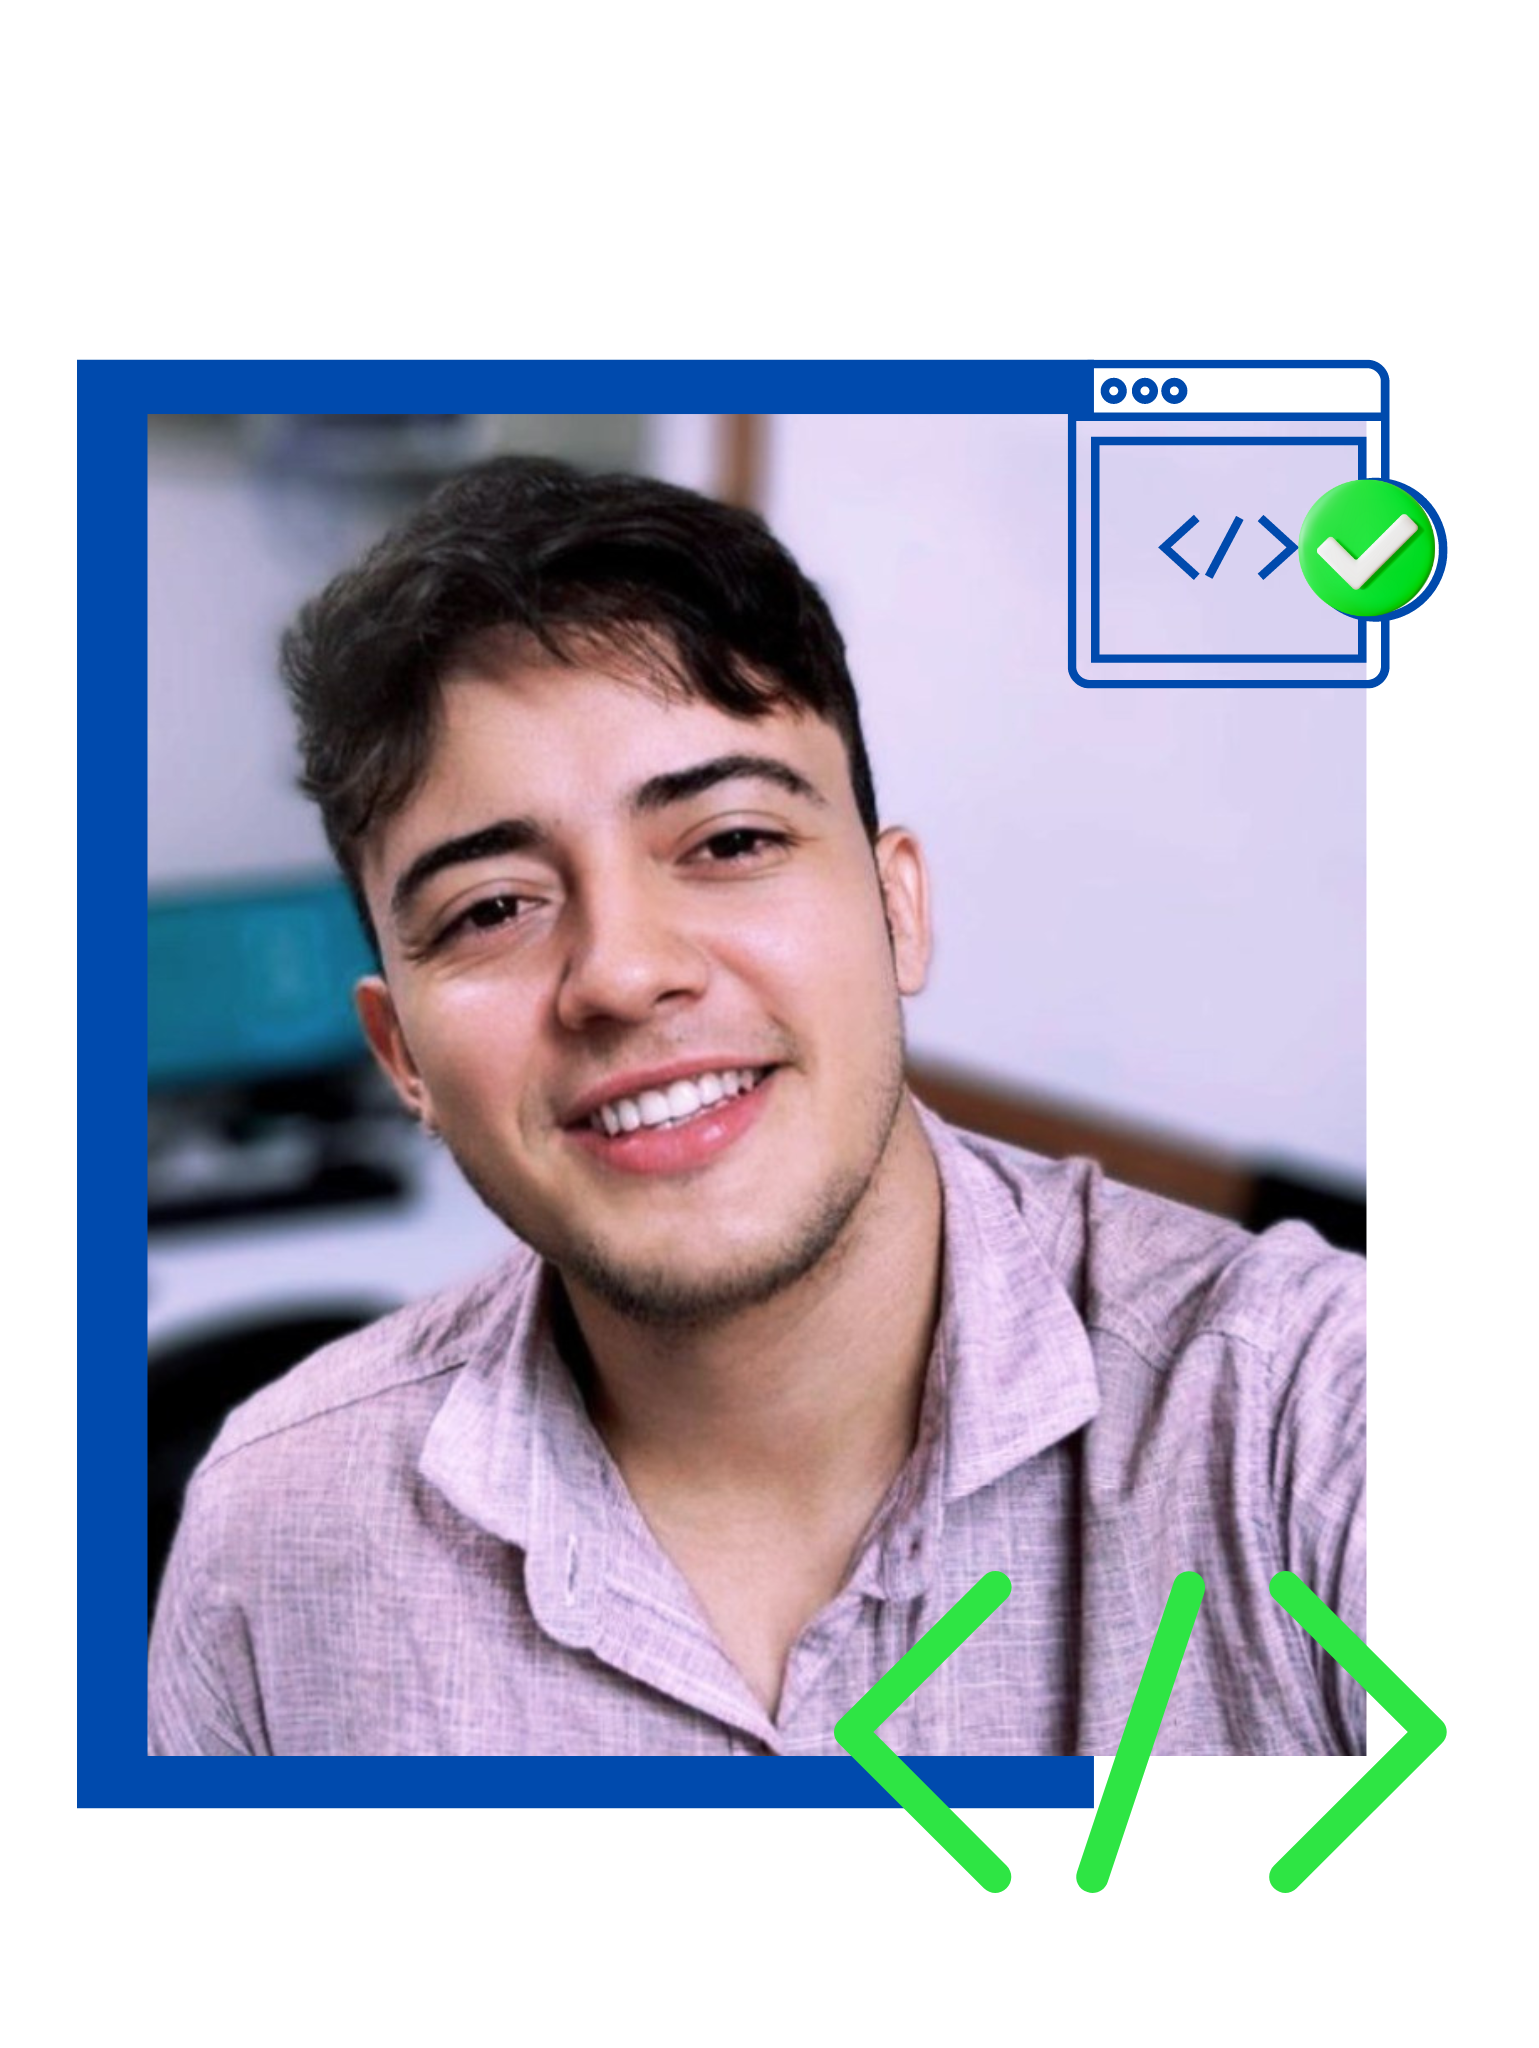
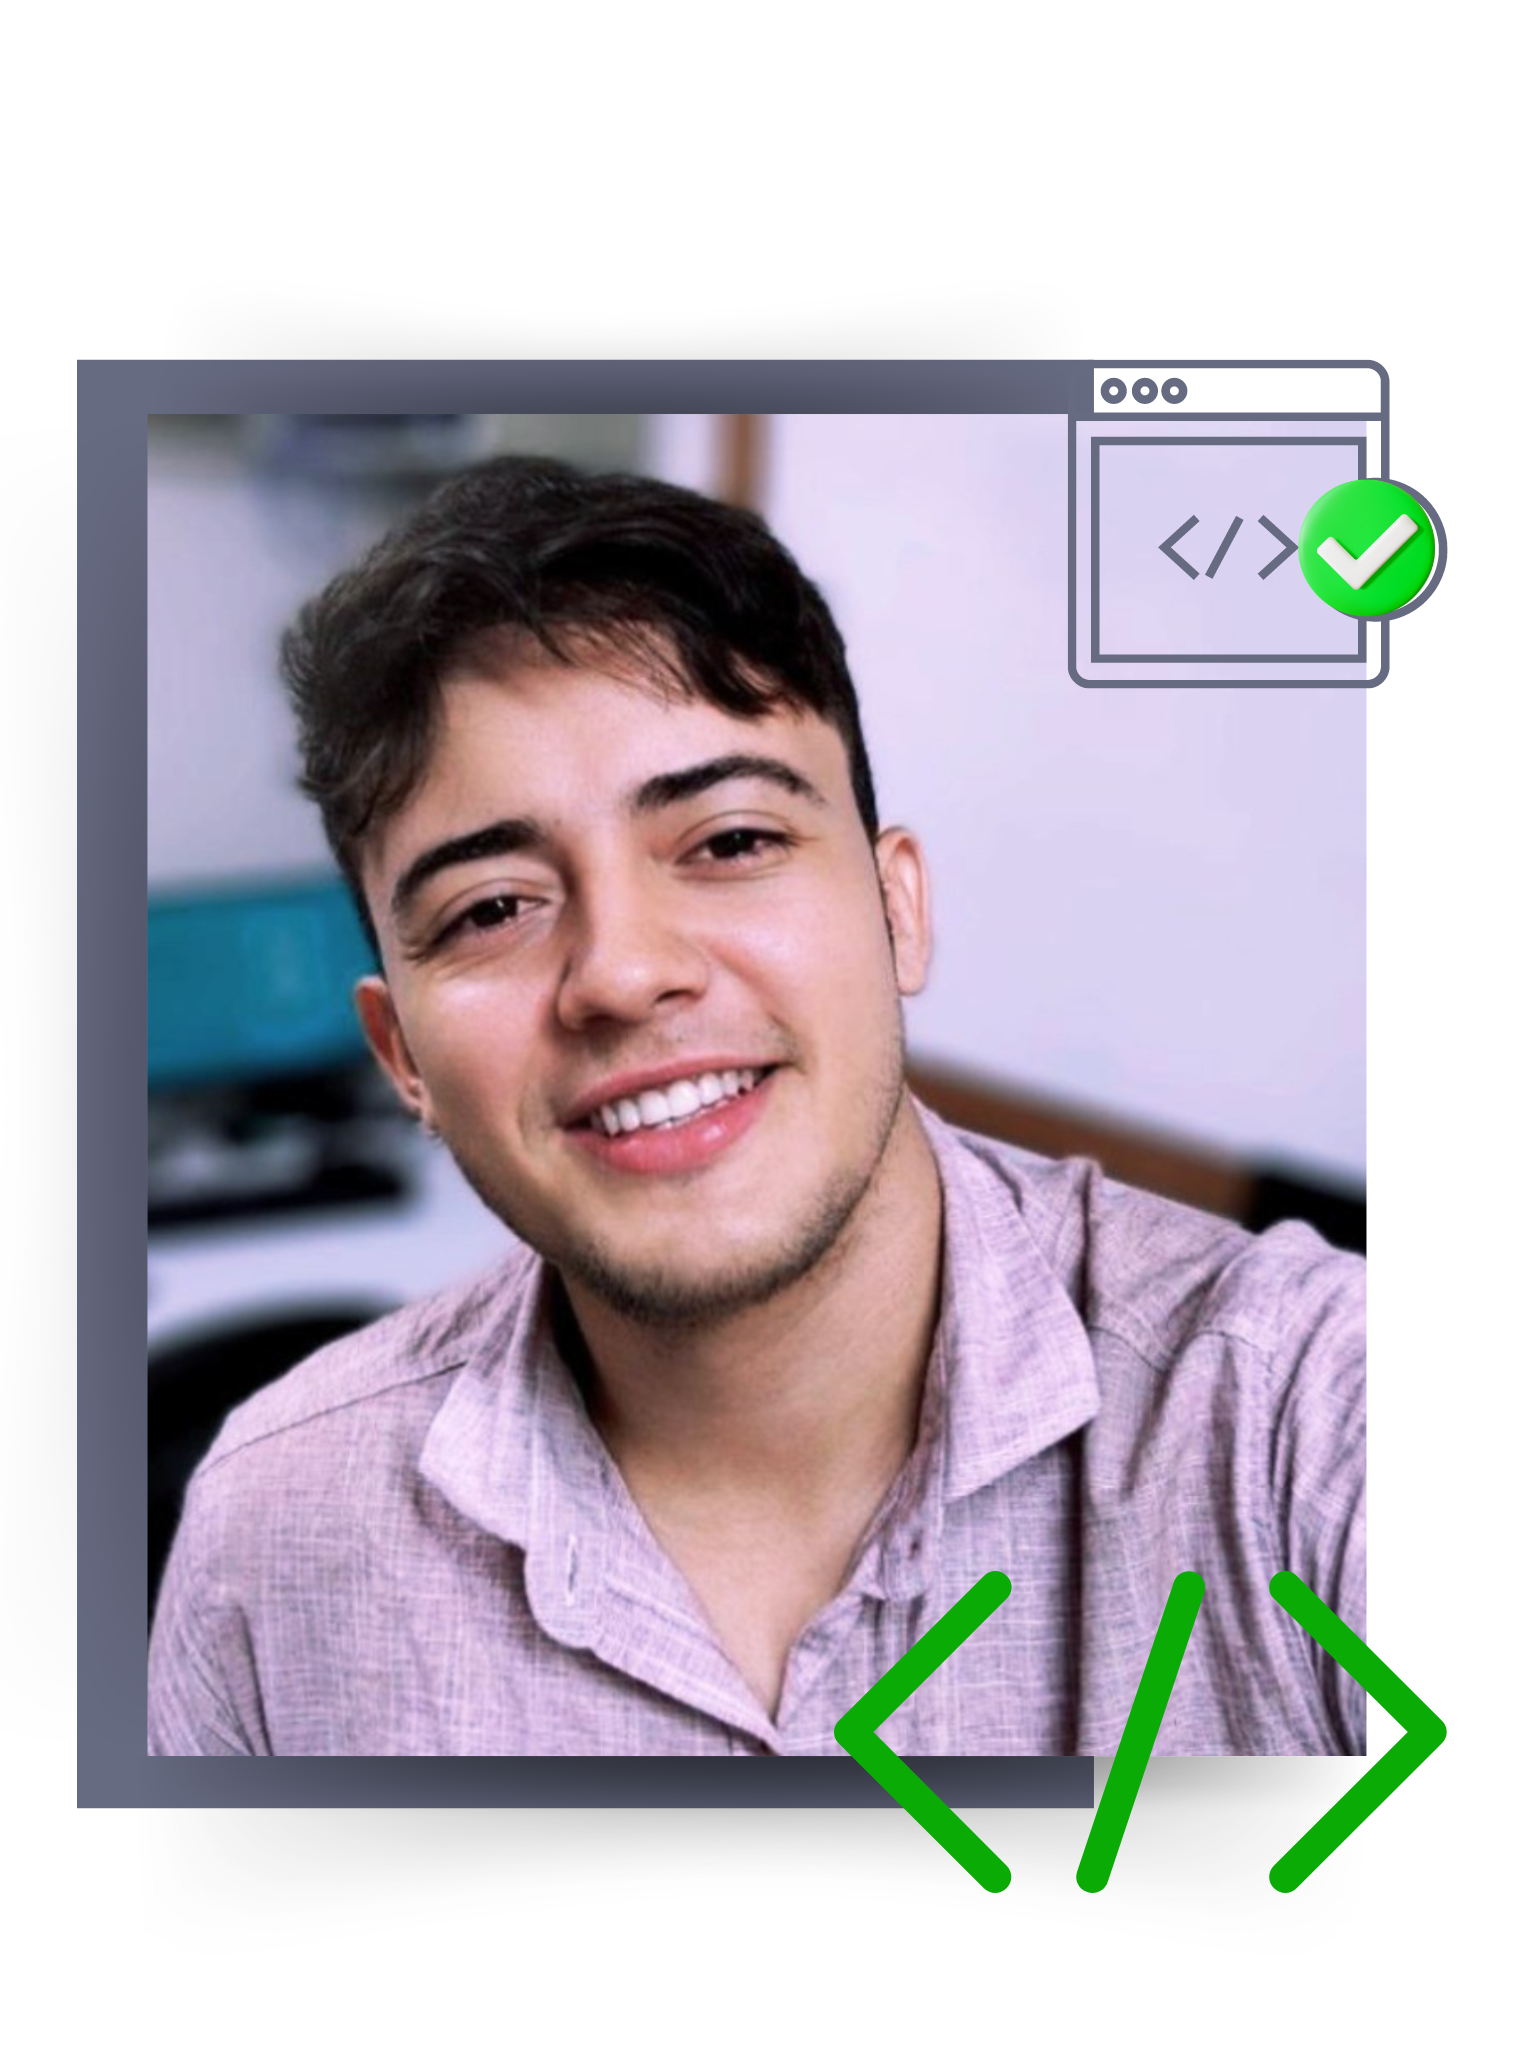
:boom: Organização  de pastas e index e implmentação da página about.html

diff --git a/index.html b/index.html
@@ -4,34 +4,38 @@
     <meta charset="UTF-8">
     <meta name="viewport" content="width=device-width, initial-scale=1.0">
     <title>Portifólio - Jhonatan Gonçalves Pereira </title>
-    <link rel="stylesheet" href="style.css">
+    <link rel="stylesheet" href="style/style.css">
     
 </head>
     <body>
-        <header></header>
+        <header class="cabecalho">
+            <nav class="cabecalho__menu">
+                <a class="cabecalho__menu__link" href="index.html">Home</a>
+                <a class="cabecalho__menu__link" href="about.html">Sobre mim</a>
+            </nav>
+        </header>
         <main class="apresentacao">
-            <img src="img/jhonatan.png" alt="Jhonatan Gonçalves Pereira">
             <section class="apresentacao__conteudo">
                 <h1 class="apresentacao__conteudo__titulo">
-                    Eleve seu negócio digital a outro nível <strong class="destaque-titulo"> com um Front-end de qualidade! </strong> 
+                    Eleve seu negócio digital a outro nível <strong class="titulo-destaque"> com um Fullstack de qualidade! </strong> 
                 </h1>
                 <p class="apresentacao__conteudo__texto">
-                    Olá! Sou Jhonatan Pereira, desenvolvedor com especialidade em React, HTML e CSS. 
-                    Ajudo pequenos negócios e designers a colocarem em prática boas ideias. Vamos conversar?
+                    Olá! Sou Jhonatan, um apaixonado por tecnologia e desenvolvimento de software. Com experiência em análise de dados 
+                    e desenvolvimento fullstack, busco desafios que impulsionem meu crescimento profissional. Vamos inovar juntos? 🚀
                 </p>
                 <div class="apresentacao__links">
-                    <a class="apresentacao__links__link" href="https://www.linkedin.com/in/jhonatan-goncalves-pereira/">
+                    <a class="apresentacao__links__navegacao" target="_blank" href="https://www.linkedin.com/in/jhonatan-goncalves-pereira/">
                         LinkedIn
                     </a>
-                    <a class="apresentacao__links__link" href="https://github.com/jhonatan-goncalves-pereira/">
+                    <a class="apresentacao__links__navegacao" target="_blank" href="https://github.com/jhonatan-goncalves-pereira/">
                         Github
-                    </a>
-                    <a class="apresentacao__links__link" href="https://cursos.alura.com.br/user/jhonatan-goncalves-pereira">
-                        Alura
                     </a>
                 </div>    
             </section>
+            <img src="assets/jhonatan.png" class="apresentacao__imagem" alt="Jhonatan Gonçalves Pereira">
         </main>
-        <footer></footer>
+        <footer  class="rodape">
+            <p>Desenvolvido por <strong> Jhonatan Gonçalves </strong></p>
+        </footer>
     </body>
 </html>

diff --git a/style/style.css b/style/style.css
@@ -1,0 +1,121 @@
+@import url('https://fonts.googleapis.com/css2?family=Krona+One&family=Montserrat:wght@400;600&display=swap');
+
+:root {
+    --cor-primaria: #000000;
+    --cor-secundaria: #F6F6F6;
+    --cor-terciaria: #2EE544;
+    --cor-quaternaria: #676B82;
+    --cor-hover: #272727;
+
+    --fonte-primaria: 'Krona One', sans-serif;
+    --fonte-secundaria: 'Montserrat', sans-serif;
+}
+*{
+    margin: 0;
+    padding: 0;
+}
+
+body{
+    box-sizing: border-box;
+    background-color: var(--cor-primaria);
+    color: var(--cor-secundaria);
+}
+
+.cabecalho{
+    padding: 2% 0% 0% 15%;
+}
+.cabecalho__menu{
+    display: flex;
+    gap: 80px;
+}
+.cabecalho__menu__link{
+    font-family: var(--fonte-secundaria);
+    font-size: 1.5rem;
+    font-weight: 600;
+    color: var(--cor-terciaria);
+    text-decoration: none;
+}
+.apresentacao{
+    padding: 5% 15%;
+    display: flex;
+    align-items: center;
+    justify-content: space-between;
+    gap: 42px;
+}
+.apresentacao__conteudo{
+    width: 50%;
+    display: flex;
+    flex-direction: column;
+    gap: 20px;
+}
+
+.apresentacao__conteudo__titulo{
+    font-size: 2.25rem;
+    font-family: var(--fonte-primaria);
+}
+.titulo-destaque{
+    color: var(--cor-quaternaria);
+}
+.apresentacao__conteudo__texto{
+    font-size: 1.2rem;
+    font-family: var(--fonte-secundaria);
+}
+
+.apresentacao__links{
+    display: flex;
+    flex-direction: column;
+    justify-content: space-between;
+    align-items: center;
+    gap: 32px;
+}
+.apresentacao__links__subtitulo{
+    font-family: var(--fonte-primaria);
+    font-weight: 400;
+    font-size: 1.5rem;
+}
+.apresentacao__links__navegacao{
+    display: flex;
+    justify-content: center;
+    gap: 16px;
+    border: 2px solid var(--cor-terciaria);
+    width: 100%;
+    text-align: center;
+    border-radius: 8px;
+    font-size: 1.5rem;
+    font-weight: 600;
+    padding: 16.5px 0;
+    text-decoration: none;
+    color: var(--cor-secundaria);
+    font-family: var(--fonte-secundaria);
+}
+.apresentacao__links__navegacao:hover{
+    background-color: var(--cor-hover);
+}
+.apresentacao__imagem{
+    width: 40%;
+}
+.rodape{
+    color: var(--cor-secundaria);
+    background-color: var(--cor-quaternaria);
+    padding: 24px;
+    text-align: center;
+    font-family: var(--fonte-secundaria);
+    font-size: 1.5rem;
+    font-weight: 400;
+}
+
+@media (max-width: 1200px) {
+    .cabecalho{
+         padding: 10%;  
+    }
+    .cabecalho__menu{
+        justify-content: center;
+    }
+    .apresentacao{
+        flex-direction: column-reverse;
+        padding: 5%;
+    }
+    .apresentacao__conteudo{
+        width: auto;
+    }
+}

diff --git a/about.html b/about.html
@@ -1,0 +1,45 @@
+<!DOCTYPE html>
+<html lang="pt-br">
+
+<head>
+    <meta charset="UTF-8">
+    <meta http-equiv="X-UA-Compatible" content="IE=edge">
+    <meta name="viewport" content="width=device-width, initial-scale=1.0">
+    <title>Sobre mim</title>
+    <link rel="stylesheet" href="style/style.css">
+</head>
+
+<body>
+    <header class="cabecalho">
+        <nav class="cabecalho__menu">
+            <a class="cabecalho__menu__link" href="index.html">Home</a>
+            <a class="cabecalho__menu__link" href="about.html">Sobre mim</a>
+        </nav>
+    </header>
+
+    <main class="apresentacao">
+        <section class="apresentacao__conteudo">
+            <h1 class="apresentacao__conteudo__titulo">Sobre mim</h1>
+            <p class="apresentacao__conteudo__texto">
+                Olá! Sou Jhonatan, um entusiasta da tecnologia e apaixonado por transformar ideias em soluções práticas. 
+                Atualmente, estou trilhando minha jornada como profissional de Tecnologia da Informação, mergulhando nas complexidades do desenvolvimento de software e análise de dados.
+            </p>
+            <p class="apresentacao__conteudo__texto">
+                Ao longo da minha trajetória, tive a oportunidade de atuar em diferentes frentes, desde o suporte técnico até o desenvolvimento fullstack. 
+                Como Analista de Dados e Sistemas na Prefeitura de Juazeiro do Norte, explorei o universo dos dados municipais, aprimorando minhas habilidades em 
+                análise e suporte a sistemas críticos.Minha passagem como Desenvolvedor Frontend na prefeitura trouxe desafios empolgantes, incluindo a criação de interfaces 
+                responsivas e a implementação de recursos interativos.
+                Além disso, como Estagiário em Desenvolvimento Fullstack na Compass UOL, contribuí para soluções completas, desde o frontend até o backend, 
+                utilizando tecnologias modernas.
+                Atualmente, estou envolvido em projetos Fullstack, desempenhando o papel de Analista de Suporte à Rede e Sistemas como profissional celetista em uma universidade.
+            </p>
+        </section>
+        <img class="apresentacao__imagem" src="assets/jhonatan.png" alt="Foto da Joana Santos programando">
+    </main>
+
+    <footer class="rodape">
+        <p>Desenvolvido por <strong>Jhonatan Gonçalves Pereira</strong></p>
+    </footer>
+</body>
+
+</html>
